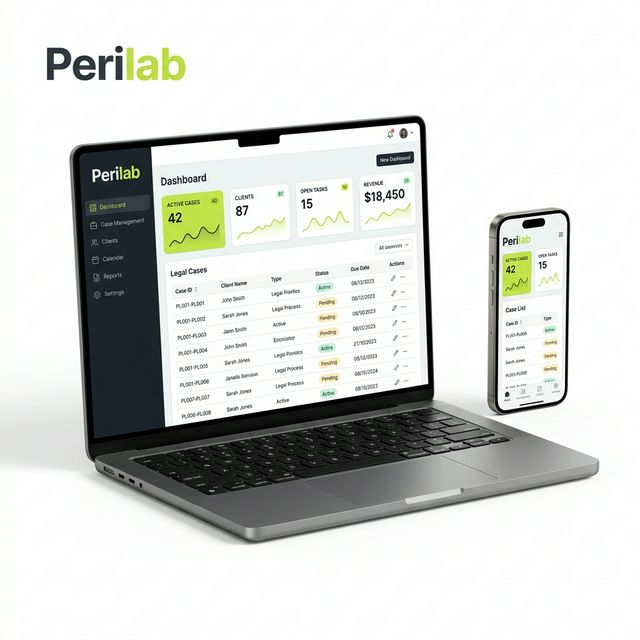
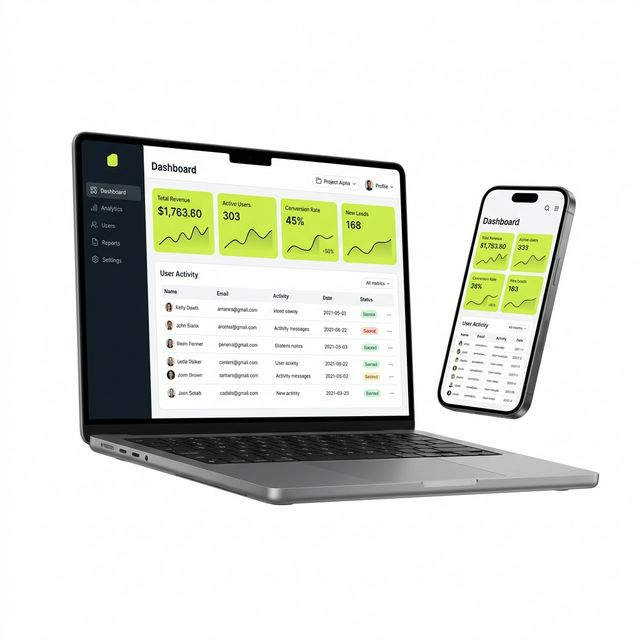
update: fix hero mockup image and montserrat font class

Changed region(s): [[0.0, 0.1562, 0.9375, 0.875], [0.0625, 0.0625, 0.3125, 0.125]]

diff --git a/app/page.tsx b/app/page.tsx
@@ -158,7 +158,7 @@ export default function LandingPage() {
               </div>
 
               {/* Headline */}
-              <h1 className="font-display mb-6 text-[2.6rem] font-bold leading-[1.06] tracking-[-0.03em] text-slate-900 sm:text-5xl lg:text-[3.25rem]">
+              <h1 className="font-heading mb-6 text-[2.6rem] font-bold leading-[1.06] tracking-[-0.03em] text-slate-900 sm:text-5xl lg:text-[3.25rem]">
                 Gestão pericial completa,<br />
                 <em className="not-italic italic font-bold text-lime-500">do processo ao laudo.</em>
               </h1>
@@ -191,21 +191,21 @@ export default function LandingPage() {
                   { value: '12.000+', label: 'Documentos gerados' },
                 ].map((s) => (
                   <div key={s.label}>
-                    <p className="font-display text-2xl font-bold tracking-tight text-slate-900 tabular-nums">{s.value}</p>
+                    <p className="font-heading text-2xl font-bold tracking-tight text-slate-900 tabular-nums">{s.value}</p>
                     <p className="mt-1 text-[11px] font-semibold uppercase tracking-wide text-slate-400">{s.label}</p>
                   </div>
                 ))}
               </div>
             </div>
 
-            {/* RIGHT — product mockup */}
-            <div className="flex items-center justify-center">
+            {/* RIGHT — product mockup, transparent on white */}
+            <div className="flex items-center justify-end">
               <Image
                 src="/hero-mockup.png"
                 alt="Perilab no laptop e no celular"
-                width={620}
-                height={520}
-                className="w-full max-w-[620px] object-contain drop-shadow-xl"
+                width={560}
+                height={420}
+                className="w-full max-w-[320px] object-contain mix-blend-multiply"
                 priority
               />
             </div>
@@ -221,7 +221,7 @@ export default function LandingPage() {
             <p className="mb-3 text-xs font-semibold uppercase tracking-[0.15em] text-lime-600">
               Funcionalidades
             </p>
-            <h2 className="font-display text-3xl font-bold tracking-tight text-slate-900 sm:text-[2.1rem]">
+            <h2 className="font-heading text-3xl font-bold tracking-tight text-slate-900 sm:text-[2.1rem]">
               Tudo que o perito precisa
             </h2>
             <p className="mt-4 text-base leading-relaxed text-slate-500">
@@ -257,7 +257,7 @@ export default function LandingPage() {
               <p className="mb-3 text-xs font-semibold uppercase tracking-[0.15em] text-lime-600">
                 Módulo de Prospecção
               </p>
-              <h2 className="font-display mb-5 text-3xl font-bold tracking-tight text-slate-900 sm:text-[2.1rem]">
+              <h2 className="font-heading mb-5 text-3xl font-bold tracking-tight text-slate-900 sm:text-[2.1rem]">
                 Conquiste novos trabalhos{' '}
                 <span className="text-lime-600">no piloto automático</span>
               </h2>
@@ -347,7 +347,7 @@ export default function LandingPage() {
             <p className="mb-3 text-xs font-semibold uppercase tracking-[0.15em] text-lime-600">
               Planos
             </p>
-            <h2 className="font-display text-3xl font-bold tracking-tight text-slate-900 sm:text-[2.1rem]">
+            <h2 className="font-heading text-3xl font-bold tracking-tight text-slate-900 sm:text-[2.1rem]">
               Escolha o seu plano
             </h2>
             <p className="mt-4 text-base text-slate-500">
@@ -379,7 +379,7 @@ export default function LandingPage() {
                     {plan.name}
                   </p>
                   <div className="flex items-baseline gap-1 mt-2">
-                    <span className={`font-display text-4xl font-bold tabular-nums tracking-tight ${plan.highlight ? 'text-white' : 'text-slate-900'}`}>
+                    <span className={`font-heading text-4xl font-bold tabular-nums tracking-tight ${plan.highlight ? 'text-white' : 'text-slate-900'}`}>
                       {plan.price}
                     </span>
                     {plan.period && (
@@ -435,7 +435,7 @@ export default function LandingPage() {
             <Shield className="h-3.5 w-3.5 text-lime-400" />
             Dados seguros · LGPD compliant
           </div>
-          <h2 className="font-display mb-4 text-2xl font-bold tracking-tight text-white sm:text-3xl">
+          <h2 className="font-heading mb-4 text-2xl font-bold tracking-tight text-white sm:text-3xl">
             Pronto para profissionalizar<br className="hidden sm:block" /> sua atuação pericial?
           </h2>
           <p className="mb-8 text-base leading-relaxed text-slate-400">
@@ -459,7 +459,7 @@ export default function LandingPage() {
             <div className="flex h-7 w-7 items-center justify-center rounded-md bg-lime-500 text-[9px] font-bold text-slate-900 select-none">
               PL
             </div>
-            <span className="font-display text-sm font-semibold text-slate-400">Perilab</span>
+            <span className="font-heading text-sm font-semibold text-slate-400">Perilab</span>
           </div>
           <p className="text-xs text-slate-600">
             © {new Date().getFullYear()} Perilab. Todos os direitos reservados.

diff --git a/app/globals.css b/app/globals.css
@@ -3,7 +3,7 @@
 @theme inline {
   --font-sans: var(--font-geist-sans);
   --font-mono: var(--font-geist-mono);
-  --font-display: var(--font-montserrat);
+  --font-heading: var(--font-montserrat);
 }
 
 :root {
